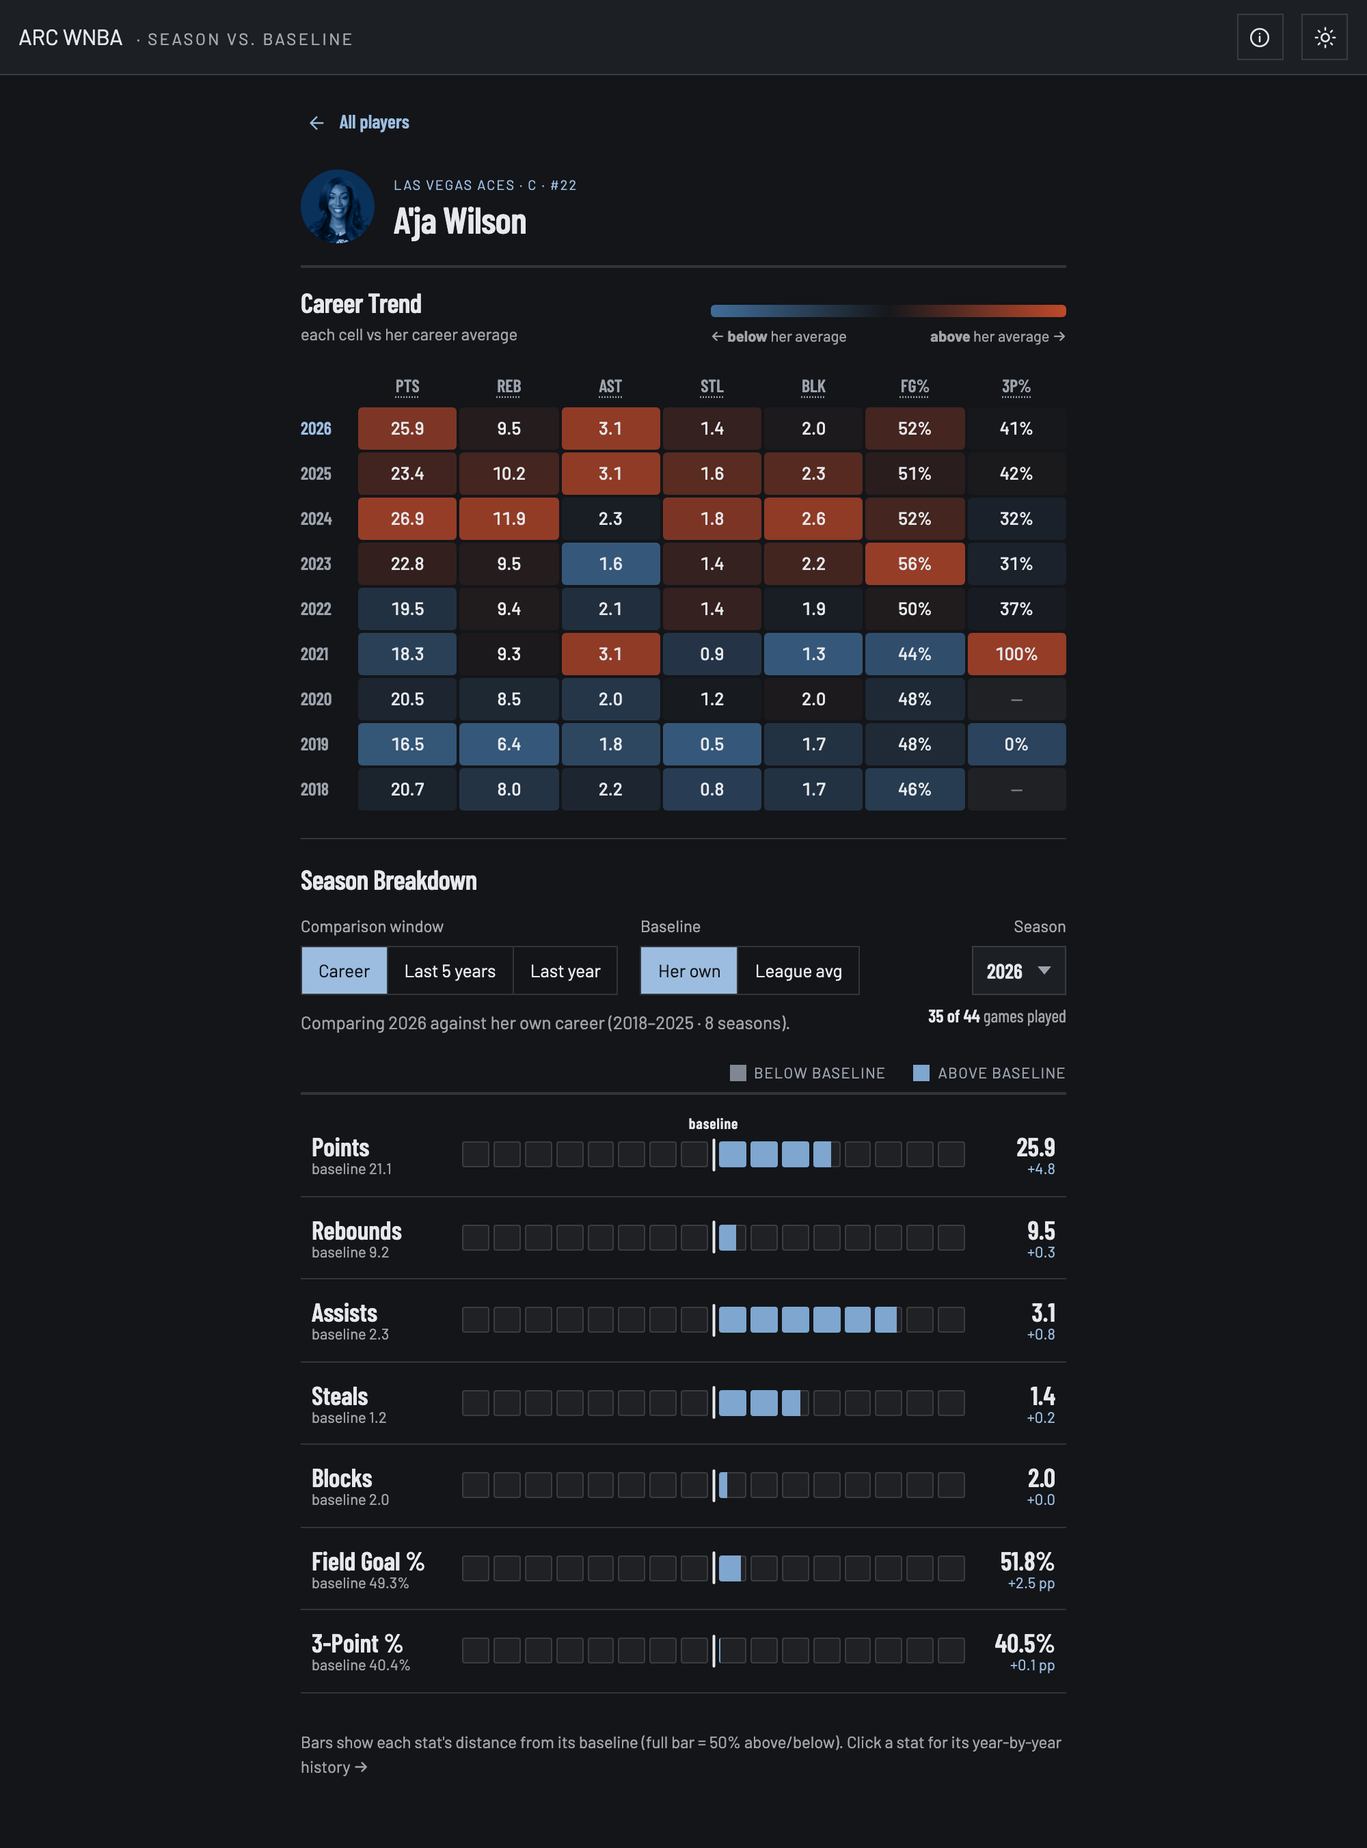
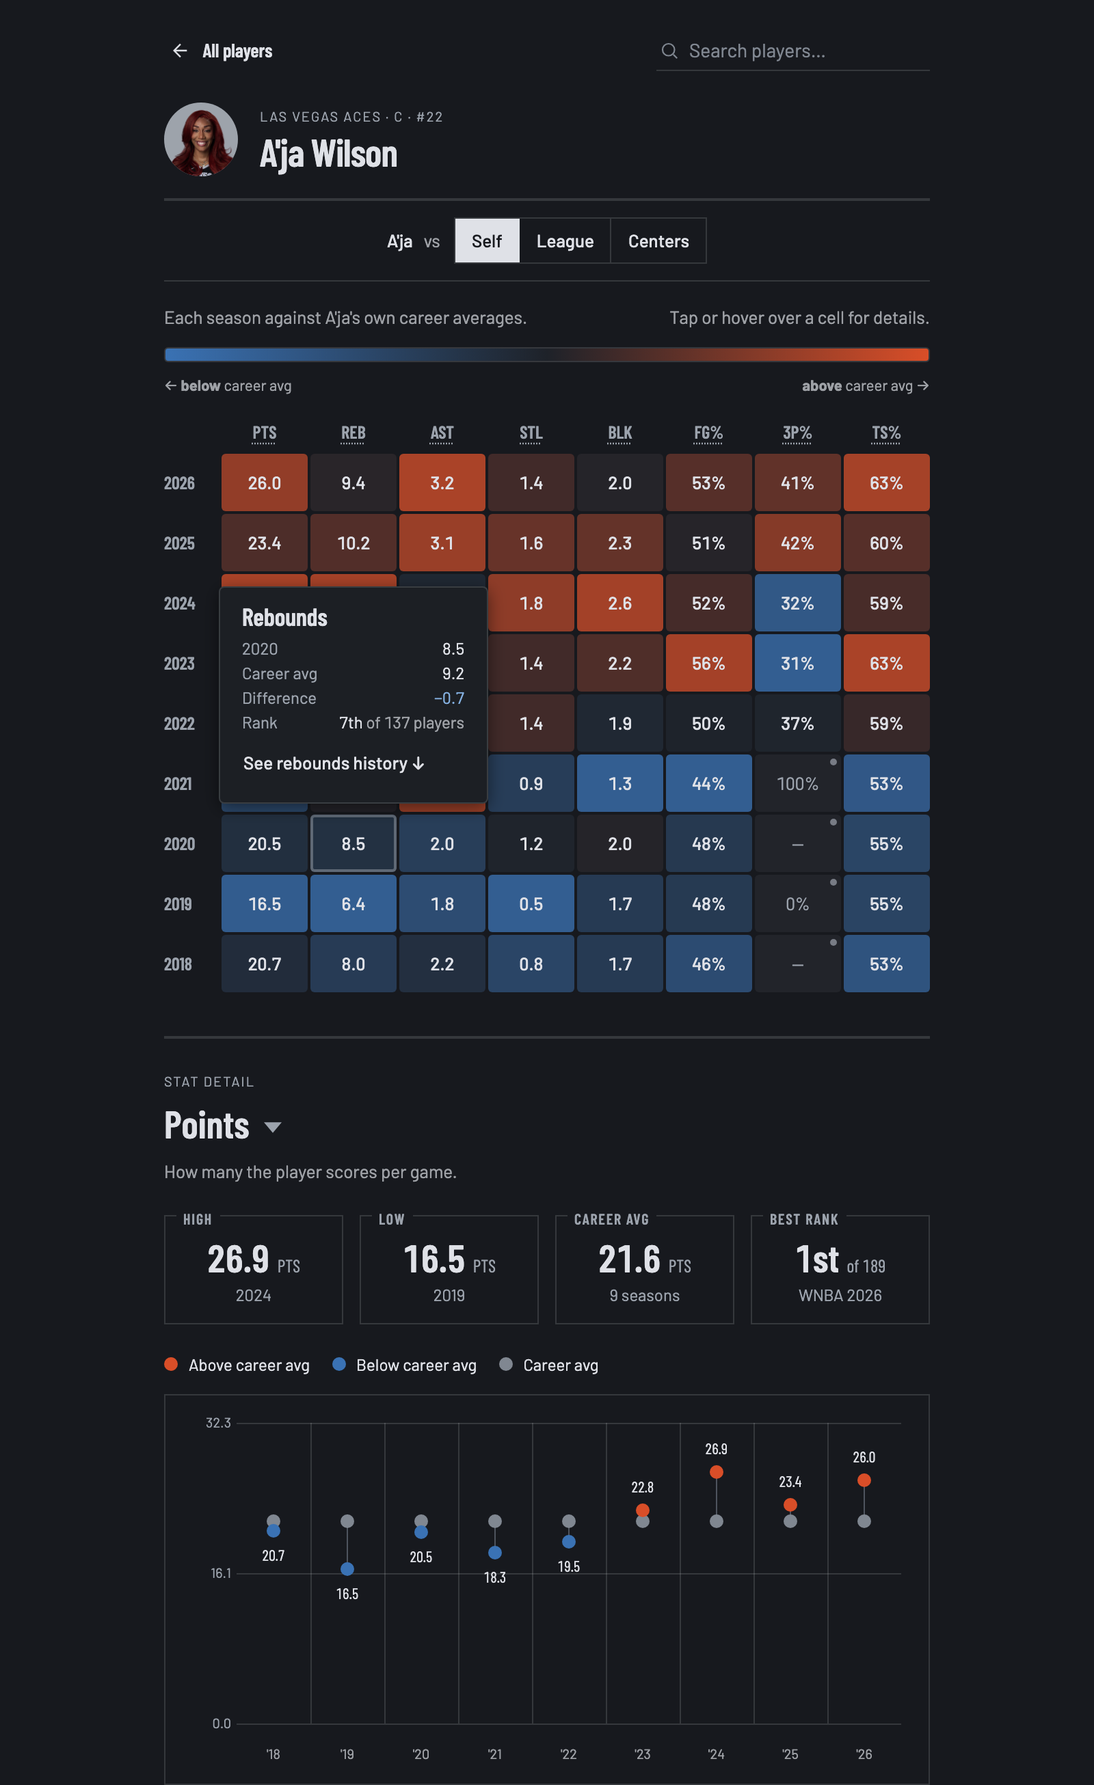
README: describe the shipped app; regenerate screenshots
The README still described the pre-September flow (deviation bars, a
separate drill-down page, a subject season, percentiles). It now covers
the switchable-reference heatmap and its cell popover, the sticky compare
bar, the stat detail (plates, dumbbell chart, table with ranks), everyone
since 1997, the comparison math with its real constants, the current file
map, and the accessibility posture. Screenshots retaken from the dev
server (A'ja Wilson, light and dark, popover pinned).

diff --git a/README.md b/README.md
@@ -1,151 +1,167 @@
 # WNBA Arc
 
-**Is this the best season of a player's career, or just another year at the office?**
-WNBA Arc reframes each stat as a distance from what's normal, so a career year stands out
-at a glance and a quiet one does too.
+**How far from normal is this season?**
+WNBA Arc shows a player's whole career as one grid of seasons and stats, colored by how far
+each number sits from what's normal — for that player, for the league that year, or for the
+players at the same position that year. A career year stands out at a glance, and a quiet one does too.
 
 **[Live demo →](https://wnba-arc.netlify.app)**
 
-| Season summary — light | Season summary — dark |
+| Player page — light | Player page — dark |
 | :--: | :--: |
-| ![Career Trend heatmap and season deviation bars, light theme](assets/summary-light.png) | ![The same player summary in dark theme](assets/summary-dark.png) |
+| ![A'ja Wilson's season-by-season heatmap with a cell's detail popover open, the career summary plates, and the year-by-year chart, light theme](assets/summary-light.png) | ![The same player page in the dark theme](assets/summary-dark.png) |
 
 ---
 
 ## The idea
 
-A single stat line rarely tells you much. Is 18 points a big year for a player, or a
-typical one? WNBA Arc answers that by measuring every stat against a baseline — the league
-that season, or the player's same-position peers — and showing how far above or below that
-baseline each stat lands. You still see the real numbers; the visualization just tells you
-how unusual they are.
+A single stat line rarely tells you much. Is 18 points a big year for a player, or a typical one?
+The answer depends on what you compare it to. WNBA Arc keeps the real numbers and adds the
+comparison: every season is measured against one **reference** you pick — the player's own career
+average, the league average that year, or the average for guards, forwards, or centers that year —
+and the color says how unusual it is. Same grid, three different questions.
 
 ## What it does
 
-- **Career Trend** — a heatmap of every season against the player's own career average
-  (warmer above, cooler below), so a whole career reads in one glance.
-- **Season comparison** — for one selected season, segmented deviation bars showing each
-  stat against that year's baseline, with the real value as the headline.
-- **Single-stat drill-down** — a year-by-year dumbbell chart plus a full history table
-  (makes/attempts for shooting %s, value, games, minutes, percentile, and delta vs.
-  baseline) for any stat.
-- **Two baselines** — compare a season against the whole **league** that year, or other
-  players at the **same position** (guards / forwards / centers) that year. Same-position is
-  offered only when there's a real sample; it never silently falls back to the league.
-- **Honest about the data** — missed seasons show as gaps in the timeline, small-sample
-  seasons are flagged and kept out of baselines, and stats that can't be sourced reliably are
-  left out rather than estimated.
-- **Shareable, linkable** — player, stat, season, and comparison all live in the URL, so
-  back/forward and link-sharing work.
-- **Light & dark themes** that follow the OS by default, with a manual toggle.
+- **One heatmap per career** — every season the player has played, across eight stats (points,
+  rebounds, assists, steals, blocks, FG%, 3P%, true shooting %). Warm cells are above the reference,
+  cool cells below; the cell shows the value. Missed seasons stay on the timeline as empty rows.
+- **Details on demand** — hover, tap, or arrow-key onto a cell and a popover shows the exact value,
+  the reference average, the difference, and that season's rank ("3rd of 141 players"), with a link
+  to the stat's full history. A tap reveals and never navigates, so a phone gets the same detail as a mouse.
+- **One switch for the whole page** — a sticky bar under the player's name (`A'ja vs Self | League |
+  Centers`). Both sections follow it, so the page never disagrees with itself. A mode the page can't
+  honor stays visible but disabled, with the reason: a one-season player has no "Self", and a player
+  with no position on record (most before 2012) has no position segment.
+- **Stat detail** — for any one stat: career plates (high, low, career average, best rank and where it
+  happened), a per-season dumbbell chart (the season's value against its reference, hollow when it
+  can't be compared, a hatched column for a missed year; click a column to highlight its row), and the
+  full yearly table with games, minutes, rank, and the difference. For shooting percentages the table
+  also shows makes and attempts, so a small sample explains itself.
+- **Everyone since 1997** — every player who has appeared in a WNBA regular season, retired players
+  included (1,217 today), so a 2004 season is measured against 2004's whole league. A retired player's
+  header reads "Retired · 1997–2003 · G".
+- **Search** by player or team, accent- and punctuation-insensitive ("aja" finds A'ja Wilson), with a
+  keyboard-navigable results list.
+- **Linkable** — player, stat, and reference all live in the URL (`/player/aja-wilson/blk?vs=league`),
+  so back/forward and sharing work.
+- **Light and dark themes** that follow the OS until you choose; headshots carry a quarter-strength
+  wash of the player's team color.
+- **Honest about the data** — small-sample seasons are greyed and kept out of every average, stats
+  that can't be sourced reliably are left out, and the footer says which game the stats run through.
 
-## How the deviation math works
+## How the comparison works
 
-The core question is *"how far from normal is this number?"* — and both "normal" and "far"
-mean different things for different stats, so the bar metric is chosen per stat type. All of
-this lives in [`src/lib/deviation.ts`](src/lib/deviation.ts): pure, React-free, and
-unit-tested.
+All of the logic lives in [`src/lib/deviation.ts`](src/lib/deviation.ts): pure, React-free, and
+unit-tested. The same functions feed the heatmap and the stat detail, so the two views always agree.
 
-**Baseline.** Every comparison is against the **subject season's** peer group — the whole
-league that year, or the player's position peers that year. There's no multi-year window: one
-season is compared to that same season's crowd, so the baseline, the bar's ruler, and the
-percentile all come from one coherent group. Position averages are gated at ≥ 8 qualified
-players, so thin buckets (mostly pre-2015) aren't offered rather than silently collapsing to
-the league.
+**Three references.** *Self* compares each season to the player's own career average. *League*
+compares each season to that year's league average, and *Position* to that year's average for the
+player's position. In the peer modes, the reference is always the same year's crowd — there is no
+multi-year window, so the average, the ruler, and the rank all describe one group.
 
-**Counting stats** (points, rebounds, assists, steals, blocks) are measured in
-**standard-deviation "steps"**: the distance from the baseline divided by the comparison
-group's spread, with a full bar at **3 steps** (`FULL_STEPS`). This replaced a
-relative-percentage bar that had two measured failures — it *saturated* for elite players (a
-star clears +50% on nearly every stat, so every bar pinned to full) and it *exploded* on
-small-denominator stats (0.1 → 0.2 blocks reads as +100%). Measuring in the group's own spread
-is honest across stats that vary by very different amounts.
+**Color for counting stats** (points, rebounds, assists, steals, blocks) is measured in
+**standard-deviation "steps"**: the distance from the reference divided by the comparison group's
+spread that year, fully saturated at 3 steps (`FULL_STEPS`). A flat percentage would saturate for
+stars (a top scorer clears +50% on nearly every stat) and explode on small numbers (0.1 → 0.2 blocks
+reads as +100%); measuring in the group's own spread is honest across stats that vary by very
+different amounts.
 
-**Shooting percentages** (FG%, 3P%, TS%) keep a **relative-change bar** (full at ± 50%,
-`BAR_FULL_SCALE`): they don't saturate — a great shooter is only ~ +13–36% over the league —
-and a percent-of-a-percent step would be hard to read.
+**Shooting percentages** (FG%, 3P%, TS%) use a relative-change scale instead, full at ±50%
+(`BAR_FULL_SCALE`): they never saturate the way counting stats do, and a percent-of-a-percent step
+would be hard to read.
 
-**Percentile.** For counting stats, each season's rank within its group is interpolated from
-stored decile ladders and shown as the "Pct" column in the drill-down table. The bar answers
-*how far*; the percentile answers *how rare* — two different questions, so both are shown.
+**Self mode** scales each stat to the player's own range, with a floor at 0.5 × the league spread
+(`HEATMAP_STEP_FLOOR`) so a career that spans a league-trivial range — a tenth of a block — can't paint
+itself as dramatic. It needs at least two seasons.
 
-**Small samples** are gated two independent ways: a season under **25%** of the scheduled
-slate (`SMALL_SAMPLE_FRACTION`, kept in sync with the data service) and a shooting % on fewer
-than **10 attempts** (`MIN_RATE_ATTEMPTS`). Gated seasons are greyed in the heatmap, dropped
-from the drill-down chart, kept in the table, and excluded from baseline averages — so a
-1-for-1 "100%" three-point year can't distort anything.
+**Ranks** come from the data service: a season's place among the qualified players that year (or among
+the player's position, in position mode), 1 = best, from the same pool the averages are computed on.
+The "best rank" plate picks the season by its **share** of the pool, not the raw place — the league
+keeps adding teams, so 27th of 106 beats 18th of 65.
 
-**Career Trend** is the one view that measures a player against *their own* career average,
-self-scaled to their own range — with a floor at 0.5 × the league spread, so a career that
-spans a league-trivial range (a tenth of a block) can't paint itself as dramatic.
+**Small samples** are gated two independent ways: a season under **25%** of that year's schedule
+(`SMALL_SAMPLE_FRACTION`, kept equal to the data service's) and a shooting percentage on fewer than
+**10 attempts** (`MIN_RATE_ATTEMPTS`). A gated season is greyed in the heatmap, drawn hollow on the
+chart, shows no difference in the table, and is excluded from the career average — so a 1-for-1 "100%"
+three-point year can't distort anything. Career shooting averages **pool** makes and attempts
+(`SUM(made) / SUM(att)`) rather than averaging season percentages, the same way the service computes
+the league's.
+
+**Position averages** start in 2012 (ESPN has no position on record for most players before then) and
+need at least 8 qualified players in the (year, position) bucket; where there is no bucket, the cell is
+neutral and says so rather than quietly using the league number.
 
 ## Architecture
 
 Two repositories make up the system:
 
 - **`wnba-arc`** (this repo) — the React frontend.
-- **`wnba-data`** (separate, private) — a Node/TypeScript + Express + Postgres service that
-  scrapes ESPN nightly, computes the derived stats and per-season league/position baselines,
-  and serves them over a small read-only JSON API.
+- **`wnba-data`** (separate) — a Node/TypeScript + Express + Postgres service that ingests ESPN's
+  stats data nightly, computes the derived stats, per-year league and position averages, spreads, and
+  ranks, and serves them over a small read-only JSON API.
 
-The API's JSON shape is the contract between them; the frontend keeps its own mirror types (no
-shared package). Inside the frontend, the dependency direction is strictly one-way —
-**components → lib → data**:
+The API's JSON shape is the contract between them; the frontend keeps its own mirror types (no shared
+package). Inside the frontend the dependency direction is one-way — **components → lib → data**:
 
-- **`src/data/`** — the only layer that touches the network. [`api.ts`](src/data/api.ts) is
-  the typed client (`getPlayers` / `getPlayer` / `getLeague` / `getPositions` / `getMeta`) and
-  the contract types; `stats.ts` holds the stat definitions and `featured.ts` the
-  landing-page list.
-- **`src/lib/`** — pure logic, no React, no fetch. [`deviation.ts`](src/lib/deviation.ts)
-  turns raw season rows plus league/position data into baseline context, deviation rows, and
-  per-stat detail; `routes.ts` maps players to name-only URL slugs; `theme.ts` handles the
-  light/dark choice. `deviation.ts` and `routes.ts` are unit-tested — which is *why* they're
-  kept free of React.
+- **`src/data/`** — the only layer that touches the network. [`api.ts`](src/data/api.ts) is the typed
+  client (`getPlayers` / `getPlayer` / `getLeague` / `getPositions` / `getMeta`) and the contract
+  types; `stats.ts` defines the eight stats, `teams.ts` the team colors, `featured.ts` the landing
+  page's static list.
+- **`src/lib/`** — pure logic, no React, no fetch. [`deviation.ts`](src/lib/deviation.ts) turns season
+  rows plus league/position data into the heatmap grid, the compare-bar segments, and the stat detail
+  (plates, chart, table); `routes.ts` maps players to name-only URL slugs; `playerMeta.ts` builds the
+  line under a name; `theme.ts` handles the light/dark choice.
 - **`src/routes/` + `App.tsx`** — the shell loads the roster, league, positions, and freshness
-  metadata once and shares them via context (`appData.ts`); route components (`PlayerLayout`,
-  `SummaryRoute`, `StatRoute`, …) fetch each player's detail on demand and gate loading /
-  error / not-found states.
-- **`src/components/`** — presentational components: the heatmap, deviation bars, drill-down,
-  search, and so on.
-- **`src/styles/`** — [`theme.css`](src/styles/theme.css) is the single design-system source
-  (tokens for color ramps, spacing, the type scale, and both themes); `app.css` holds a few
-  interaction styles.
+  metadata once and shares them via context (`appData.ts`); `PlayerLayout` fetches one player's
+  history and gates loading / error / not-found; `PlayerRoute` resolves the URL into a mode and a stat.
+- **`src/components/`** — the heatmap and its popover, the compare bar, the stat detail (plates, chart,
+  table), search, tooltips, footer, and the landing and about pages.
+- **`src/styles/`** — [`theme.css`](src/styles/theme.css) is the single design-system source: tokens
+  for the neutral ramp, the diverging heat scale, spacing, the type scale, and both themes. The UI is
+  deliberately monochrome — color is reserved for data (the red/blue heat) and identity (team tints).
 
-Routing uses **name-only slugs** (`/player/aja-wilson`, `/player/aja-wilson/blk`) with
-`?year=` / `?vs=` query params, so the full view state lives in the URL.
+Routing uses **name-only slugs** (`/player/aja-wilson`, `/player/aja-wilson/blk`) with `?vs=league` or
+`?vs=position` for the reference (self is the default), so the full view state lives in the URL.
 
 ## Accessibility
 
-Built to **WCAG 2.1 AA**: keyboard-operable throughout, semantic landmarks and headings,
-non-color cues alongside every color encoding, and AA-contrast text in both themes. Audited
-with axe across Chromium, Firefox, and WebKit — zero violations.
+Built to **WCAG 2.1 AA**, with the 2.2 additions where they apply:
+
+- The heatmap is a real ARIA grid with a roving tabindex — one Tab stop, arrow keys move between
+  cells, Enter opens the stat's history. Each cell's accessible name carries the value, the difference,
+  the reference, and the rank, so nothing is pointer-only.
+- Tooltips and the cell popover are hoverable, dismissible with Escape, and reachable by keyboard
+  (1.4.13). Disabled compare-bar segments stay focusable so their reason is reachable.
+- Focus is never hidden under the sticky bar (2.4.11); the heatmap and the chart scroll sideways on
+  phones so the page never does (1.4.10); animations have static fallbacks under
+  `prefers-reduced-motion`; focus rings survive `forced-colors`.
+- Every interactive state has been scanned with axe in Chromium, Firefox, and WebKit, in both themes —
+  zero violations. A manual screen-reader pass has not been done yet.
 
 ## Tech
 
 - **React 19 + TypeScript + Vite**
-- **react-router** in declarative SPA mode — player / stat / season / comparison state lives
-  in the URL
-- Plain-CSS design-system tokens (a single source for spacing, color ramps, the type scale,
-  and both themes) — no CSS framework
-- A layered structure (see [Architecture](#architecture)): typed API client → pure logic → components
-- Data comes from a **companion service** (a separate Node/TypeScript + Express + Postgres
-  API) over a small JSON contract. This repo is the frontend of that two-part system.
+- **react-router 7** — player / stat / reference state lives in the URL
+- Plain-CSS design tokens, no CSS framework; type set in Barlow and Barlow Condensed (Google Fonts)
+- **vitest** on the pure logic
+- Data from the **companion service** (`wnba-data`) over a small JSON contract
 
 ## Running locally
 
-Requires Node 20+ and a running instance of the data API on its default port (3001).
+Requires Node 20.19+ or 22.12+ and a running instance of the data API on its default port (3001).
 
 ```bash
 npm install
 npm run dev               # http://localhost:5173 (or the next free port)
 ```
 
-No `.env` is needed in dev: the Vite dev server proxies `/api` to the data API
-(`vite.config.ts`), so the browser never makes a cross-origin request. `VITE_API_BASE` is
-only for production builds, where it points at the deployed API (see `.env.example`).
+No `.env` is needed in dev: the Vite dev server proxies `/api` to the data API (`vite.config.ts`), so
+the browser never makes a cross-origin request. `VITE_API_BASE` is only for production builds, where it
+points at the deployed API (see `.env.example`).
 
-To try it on a phone, start the dev server with `npm run dev -- --host` and open the
-network URL Vite prints; the proxy means the phone needs no access to the API itself.
+To try it on a phone, start the dev server with `npm run dev -- --host` and open the network URL Vite
+prints; the proxy means the phone needs no access to the API itself.
 
 Other scripts:
 
@@ -157,14 +173,17 @@ npm run test      # run the unit tests (vitest) once
 npm run test:watch # re-run tests on change
 ```
 
-Tests cover the pure logic in `src/lib/` — the baseline and deviation math (subject
-selection, small-sample gating, step-vs-relative bar geometry, position baselines, and
-percentiles) in `deviation.test.ts`, and the URL-slug helpers in `routes.test.ts`.
+Tests cover the pure logic: the grid, references, small-sample gating, pooled averages, the compare-bar
+segments, the fitted chart axis, and the best-rank rule in `deviation.test.ts`; URL slugs in
+`routes.test.ts`; the header line in `playerMeta.test.ts`; stat descriptions, team colors, the footer's
+freshness line, and tooltip placement in their own files.
 
 ## Data source
 
-Player stats come from ESPN's public stats data, refreshed nightly, with efficiency stats
-(true shooting %, usage rate, and the rest) computed from box-score totals so they stay
-consistent with the raw numbers. A few stats are intentionally omitted — rebound percentages
-need opponent data that isn't published, and all-in-one metrics like PER can't be derived
-from a box score — rather than shipping unreliable numbers.
+Player stats come from ESPN's public stats data, refreshed nightly by the data service. True shooting %
+is computed from box-score totals; the service also derives other efficiency and usage rates, but only
+TS% is shown here. A few stats are intentionally omitted — rebound percentages need opponent data that
+isn't published, and all-in-one metrics like PER can't be derived from a box score — rather than
+shipping unreliable numbers.
+
+WNBA Arc is an independent, unofficial project, not affiliated with the WNBA or ESPN.
